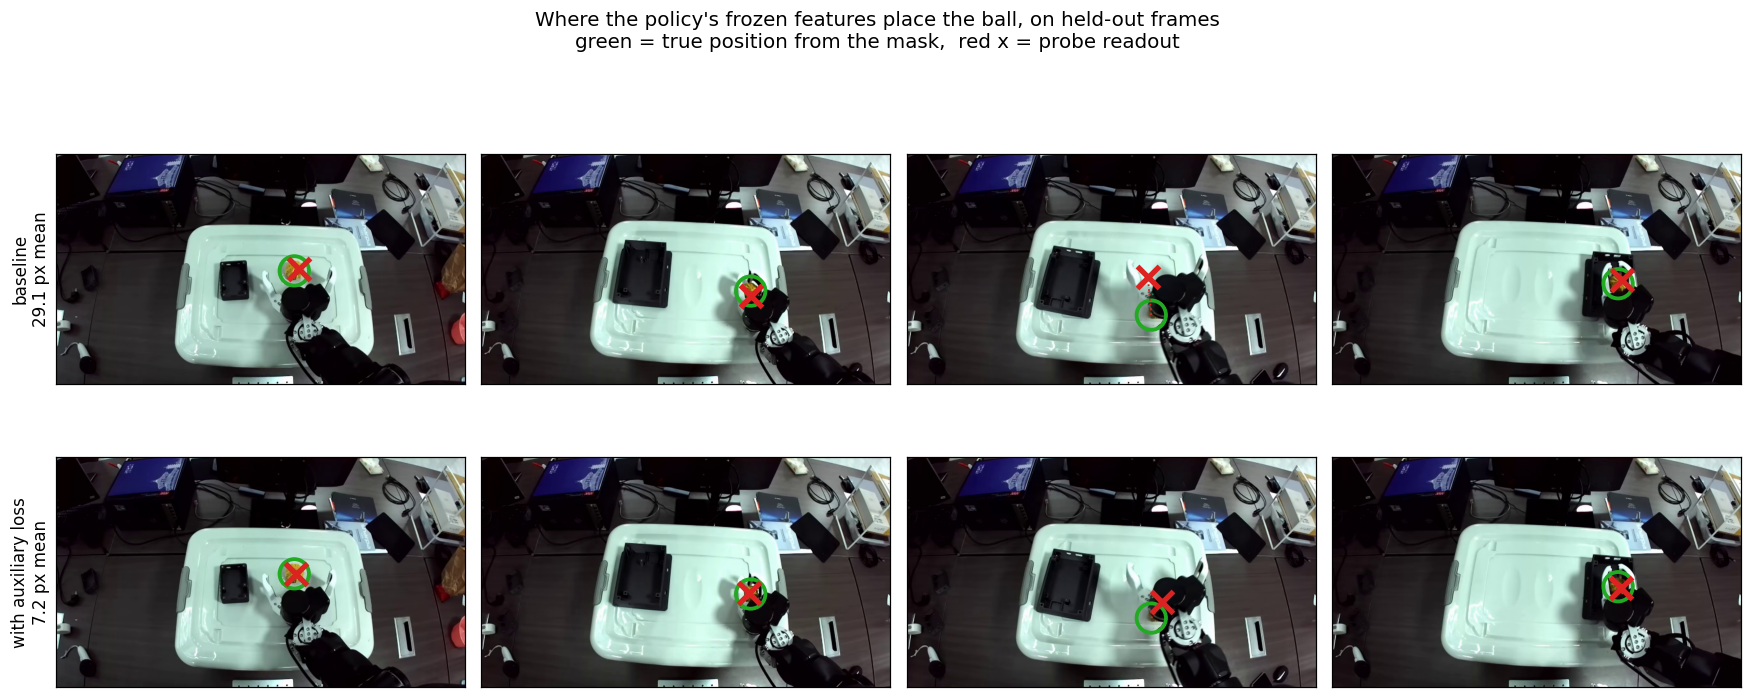
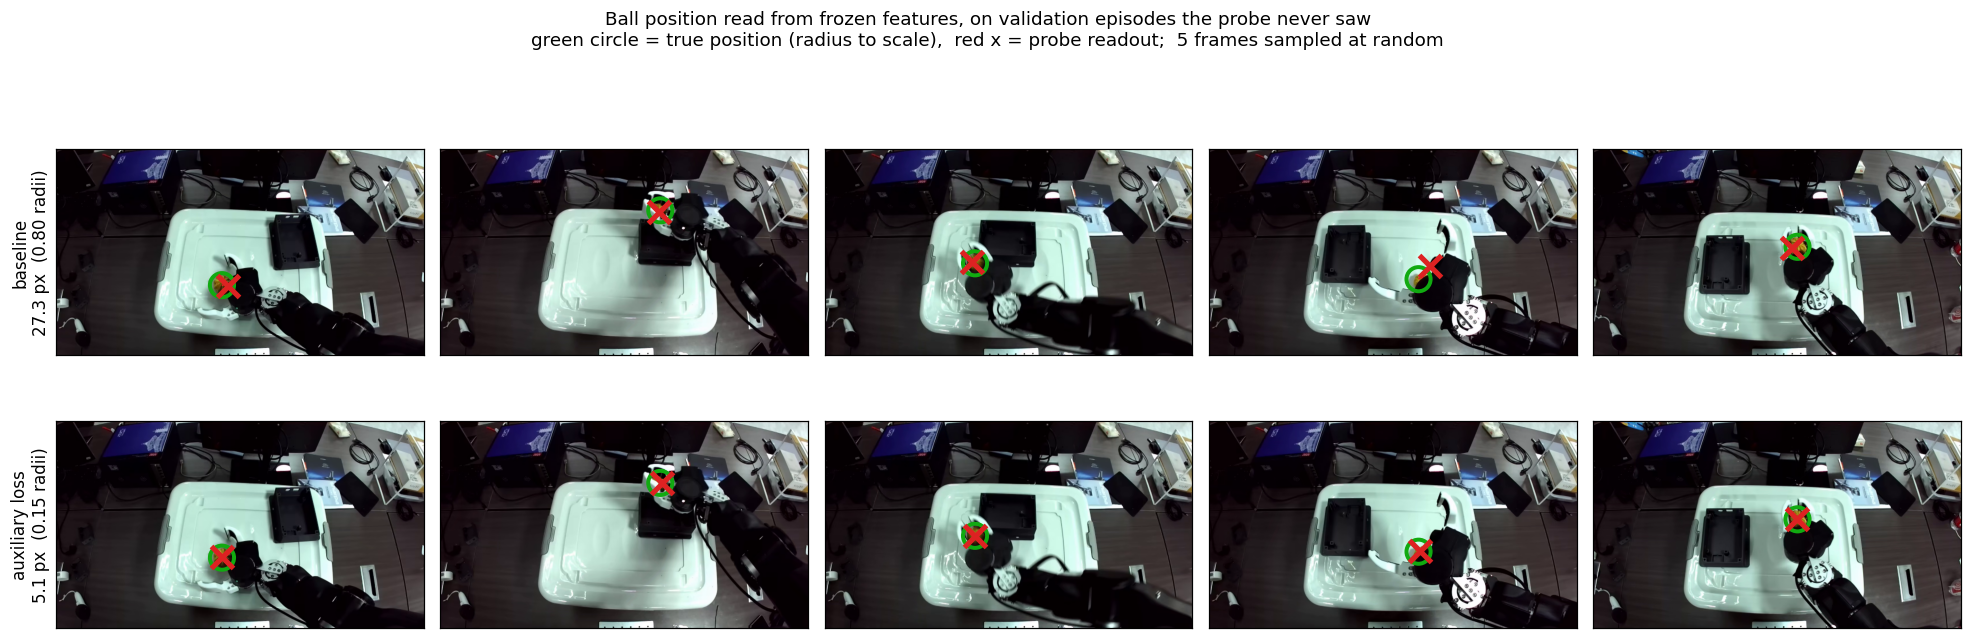
docs(hvla): correct the probe numbers and state the protocol they depend on
The baseline was reported at 132.5 px held-out, which was wrong. Under a
protocol with the split taken by episode and the probe fitted across many
episodes rather than densely within few, the same checkpoint measures 27.3 px
and the auxiliary one 5.1 px.

The error was in the probe, not the representation: fitting on 45 densely
sampled episodes gives a probe that generalises badly, and its failure was
being read as the representation's. Episode diversity in the probe's own
training set moves the result about 5x, so the protocol is now recorded
alongside the number.

This weakens the claim. The baseline localises the ball to within one radius
already -- it is not blind to the object, and the auxiliary loss sharpens an
existing signal ~5x rather than supplying a missing one. The figure is redrawn
from the corrected run so the picture and the numbers agree; the earlier one
showed a baseline hitting 3 of 4 while the caption claimed it could not find
the ball at all, which is what exposed this.

diff --git a/docs/proofs/ball-cue-aux/README.md b/docs/proofs/ball-cue-aux/README.md
@@ -1,0 +1,44 @@
+# What the auxiliary loss did to the representation
+
+![probe readout](probe-readout.png)
+
+A linear probe over frozen patch features, reading the ball's position out of
+each checkpoint. Green marks the true position from the saved mask, drawn at
+the ball's real radius; the red cross is the probe's readout.
+
+| checkpoint               | held-out error | in ball radii | vs guessing the mean |
+| ------------------------ | -------------- | ------------- | -------------------- |
+| baseline `37f6ba8aef48`  | 27.3 px        | 0.80          | 84%                  |
+| auxiliary `cfe6190b3146` | 5.1 px         | 0.15          | 97%                  |
+
+Guessing the training mean scores 169.6 px. The ball's radius is ~34 px at
+1280 wide.
+
+## Protocol, because the number depends on it
+
+Fit on 1037 frames drawn from training episodes, read out on 179 frames from
+the 36 validation episodes. **The split is by episode** — no frame from a
+validation episode appears in the fit. The backbone and projection are frozen;
+only the probe trains, with weight decay and early stopping on a split carved
+out of the training episodes. Identical frames, steps and seed for both
+checkpoints, so the only difference is the representation.
+
+An earlier measurement of the same baseline reported 132.5 px. That probe was
+fitted on 45 densely-sampled episodes, so it was the PROBE that generalised
+badly, not the representation that was worse. Episode diversity in the probe's
+own training set moves this number by 5x, which is worth knowing before
+quoting it: a probe result characterises a representation only as far as the
+probe itself generalises.
+
+## What it does and does not show
+
+The baseline already locates the ball to within one radius. It is not blind to
+the object, and any claim that the auxiliary loss taught it something it had no
+access to is wrong. What the auxiliary loss did is sharpen an existing signal
+by about 5x, and remove the train/held-out gap that every other measurement of
+this policy shows.
+
+It says nothing about whether the action head uses the sharper signal. On the
+rig the same checkpoint had the best horizontal grasp error of the variants
+tried and still missed, by hovering above the ball — the auxiliary supervised
+(x, y) in a top-down view, which carries no height information.
